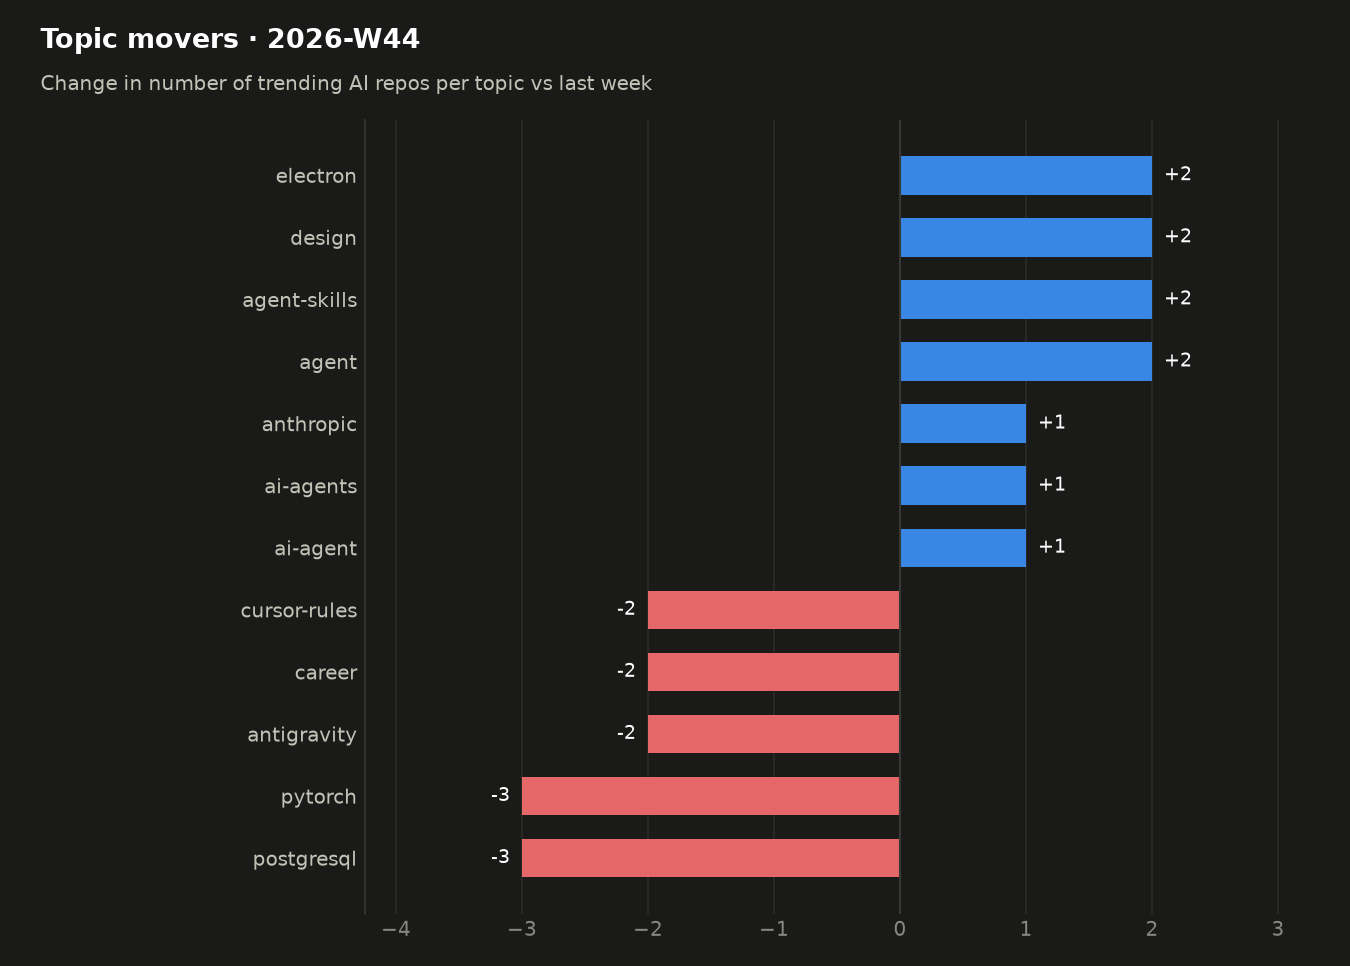
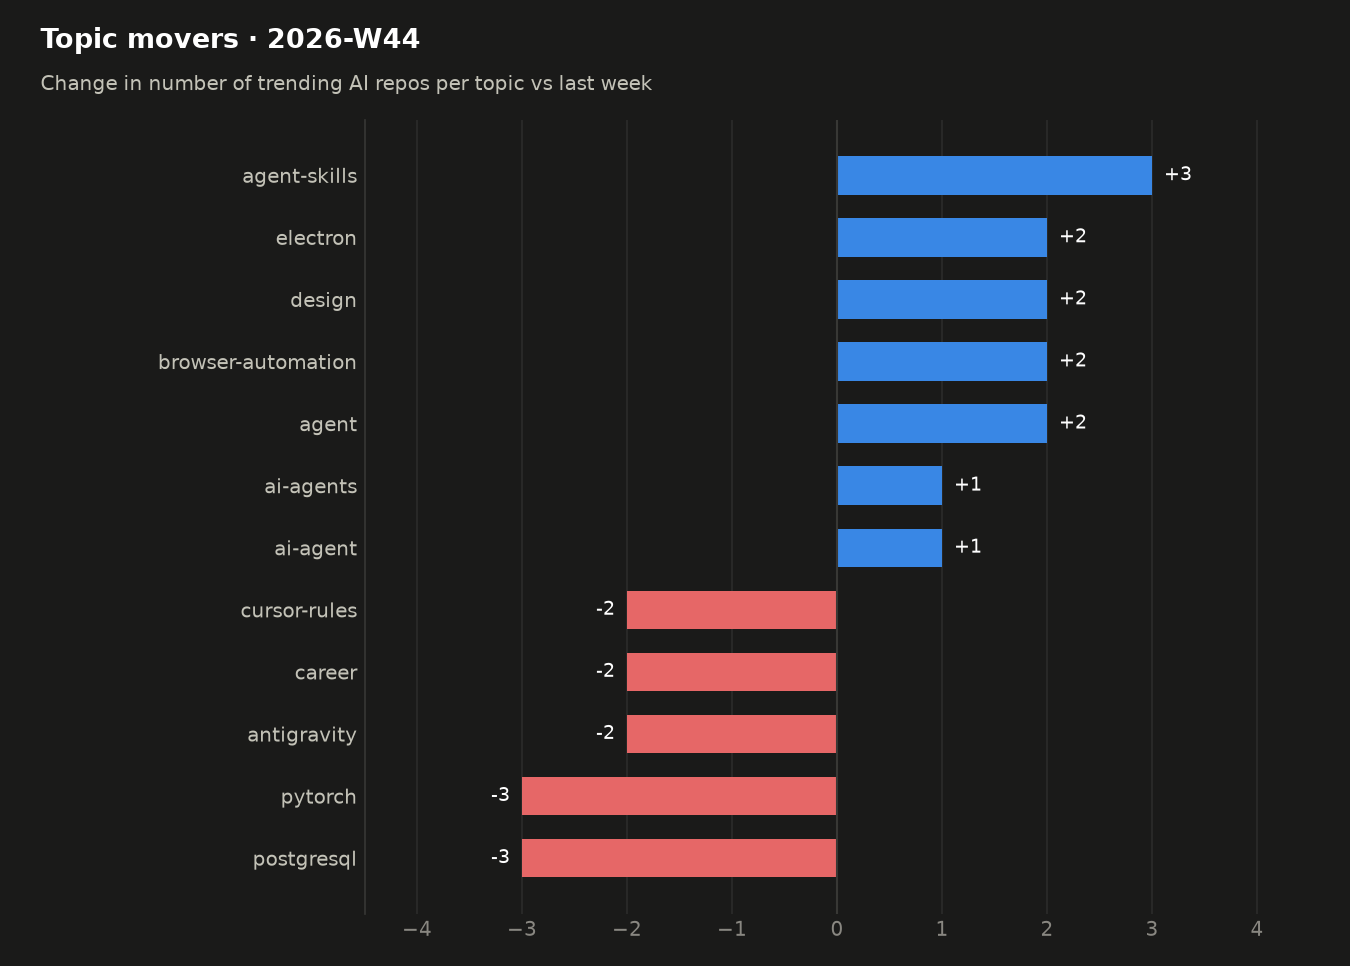
trending: snapshot 2026-10-31

diff --git a/README.md b/README.md
@@ -7,32 +7,34 @@ Every morning a GitHub Actions workflow reads the GitHub trending page, looks up
 ## Live view
 
 <!-- TRACKER_START -->
-### 🔥 AI repos trending today · 2026-10-30
+### 🔥 AI repos trending today · 2026-10-31
 
-10 of 11 trending repositories are AI-related.
+12 of 15 trending repositories are AI-related.
 
 | # | Repo | Language | ⭐ today | ⭐ total | Topics |
 |--:|---|---|--:|--:|---|
-| 1 | [HKUDS/DeepTutor](https://github.com/HKUDS/DeepTutor)<br><sub>Star HKUDS / DeepTutor DeepTutor: Lifelong Personalized Tutoring. https://deeptutor.info/ …</sub> | Python | 1,930 | 50,990 | `ai-agents` `ai-tutor` `clawbot` `cli-tool` |
-| 2 | [obra/superpowers](https://github.com/obra/superpowers)<br><sub>Sponsor Star obra / superpowers An agentic skills framework & software development methodo…</sub> | Shell | 1,034 | 308,948 | `ai` `brainstorming` `coding` `obra` |
-| 3 | [pbakaus/impeccable](https://github.com/pbakaus/impeccable)<br><sub>Star pbakaus / impeccable The design vocabulary for your coding agent. Steer with polish a…</sub> | Rust | 2,870 | 96,089 | `agent-skills` `ai` `anti-slop` `design` |
-| 4 | [JetBrains/thinkrail](https://github.com/JetBrains/thinkrail)<br><sub>Star JetBrains / thinkrail Vibe code with pi in a lightweight, real IDE that customises it…</sub> | TypeScript | 1,117 | 6,242 | `agent` `agent-skills` `agentic-ai` `agentic-workflow` |
-| 5 | [milind-soni/OpenMausBot](https://github.com/milind-soni/OpenMausBot)<br><sub>Sponsor Star milind-soni / OpenMausBot Open-source Grok Bot alternative with a virtual mac…</sub> | TypeScript | 1,199 | 7,780 | `ai-agents` `claude-code` `codex` `computer-use` |
-| 6 | [nightly-labs/openbot](https://github.com/nightly-labs/openbot)<br><sub>Star nightly-labs / openbot A local-first desktop workspace for persistent AI teammates. R…</sub> | TypeScript | 709 | 4,079 | `ai-agents` `bun` `codex` `electron` |
-| 7 | [elayadesign/ai-design-skills](https://github.com/elayadesign/ai-design-skills)<br><sub></sub> | – | 1,187 | 12,559 | – |
-| 8 | [thedotmack/claude-mem](https://github.com/thedotmack/claude-mem)<br><sub>Sponsor Star thedotmack / claude-mem Persistent Context Across Sessions for Every Agent – …</sub> | TypeScript | 336 | 105,133 | `ai` `ai-agents` `ai-memory` `anthropic` |
-| 9 | [CopilotKit/OpenBot](https://github.com/CopilotKit/OpenBot)<br><sub>Star CopilotKit / OpenBot Open-source AI coworkers that each get a computer of their own: …</sub> | TypeScript | 247 | 8,371 | `ag-ui` `agent-governance` `ai-agents` `browser-automation` |
-| 11 | [Donchitos/Claude-Code-Game-Studios](https://github.com/Donchitos/Claude-Code-Game-Studios)<br><sub>Sponsor Star Donchitos / Claude-Code-Game-Studios Turn Claude Code into a full game dev st…</sub> | Shell | 353 | 29,725 | `ai-agents` `ai-assisted-development` `anthropic` `claude` |
+| 1 | [thedotmack/claude-mem](https://github.com/thedotmack/claude-mem)<br><sub>Sponsor Star thedotmack / claude-mem Persistent Context Across Sessions for Every Agent – …</sub> | TypeScript | 1,140 | 106,771 | `ai` `ai-agents` `ai-memory` `anthropic` |
+| 2 | [milind-soni/OpenMausBot](https://github.com/milind-soni/OpenMausBot)<br><sub>Sponsor Star milind-soni / OpenMausBot Open-source Grok Bot alternative with a virtual mac…</sub> | TypeScript | 895 | 9,021 | `ai-agents` `claude-code` `codex` `computer-use` |
+| 3 | [pbakaus/impeccable](https://github.com/pbakaus/impeccable)<br><sub>Star pbakaus / impeccable The design vocabulary for your coding agent. Steer with polish a…</sub> | Rust | 2,300 | 97,480 | `agent-skills` `ai` `anti-slop` `design` |
+| 4 | [CopilotKit/OpenBot](https://github.com/CopilotKit/OpenBot)<br><sub>Star CopilotKit / OpenBot Open-source AI coworkers that each get a computer of their own: …</sub> | TypeScript | 706 | 8,968 | `ag-ui` `agent-governance` `ai-agents` `browser-automation` |
+| 6 | [expo/skills](https://github.com/expo/skills)<br><sub>Star expo / skills A collection of AI agent skills for working with Expo projects and Expo…</sub> | Shell | 38 | 3,950 | – |
+| 7 | [macro-inc/macro](https://github.com/macro-inc/macro)<br><sub>Star macro-inc / macro Macro is a unified workspace for teams: email, chat, docs, tasks, a…</sub> | Rust | 57 | 5,957 | `agent` `ai` `ai-agents` `all-in-one` |
+| 8 | [mattpocock/skills](https://github.com/mattpocock/skills)<br><sub>Sponsor Star mattpocock / skills Skills for Real Engineers. Straight from my .agents direc…</sub> | Shell | 876 | 307,724 | – |
+| 10 | [HKUDS/DeepTutor](https://github.com/HKUDS/DeepTutor)<br><sub>Star HKUDS / DeepTutor DeepTutor: Lifelong Personalized Tutoring. https://deeptutor.info/ …</sub> | Python | 2,282 | 52,091 | `ai-agents` `ai-tutor` `clawbot` `cli-tool` |
+| 11 | [anthropics/skills](https://github.com/anthropics/skills)<br><sub>Star anthropics / skills Public repository for Agent Skills</sub> | Python | 295 | 185,557 | `agent-skills` |
+| 12 | [JetBrains/thinkrail](https://github.com/JetBrains/thinkrail)<br><sub>Star JetBrains / thinkrail Vibe code with pi in a lightweight, real IDE that customises it…</sub> | TypeScript | 722 | 6,693 | `agent` `agent-skills` `agentic-ai` `agentic-workflow` |
+| 14 | [obra/superpowers](https://github.com/obra/superpowers)<br><sub>Sponsor Star obra / superpowers An agentic skills framework & software development methodo…</sub> | Shell | 1,259 | 309,617 | `ai` `brainstorming` `coding` `obra` |
+| 15 | [lightpanda-io/browser](https://github.com/lightpanda-io/browser)<br><sub>Star lightpanda-io / browser Lightpanda: the headless browser designed for AI and automati…</sub> | Zig | 626 | 38,672 | `browser` `browser-automation` `cdp` `headless` |
 
 ### 📊 This week so far · 2026-W44
 
 #### Summary
 
-- **25** distinct AI repos trended over 5 day(s) (last week: 31)
-- AI share of all trending slots: **85%** (+6 pts vs last week)
-- Dominant language: **TypeScript** (28% of AI repos)
-- Rising topics: `agent` (+2), `agent-skills` (+2), `design` (+2), `electron` (+2), `ai-agent` (+1)
-- New this week: `design`
+- **28** distinct AI repos trended over 6 day(s) (last week: 31)
+- AI share of all trending slots: **84%** (+5 pts vs last week)
+- No single dominant language: Python, TypeScript tied at 7 repo(s) each
+- Rising topics: `agent-skills` (+3), `agent` (+2), `browser-automation` (+2), `design` (+2), `electron` (+2)
+- New this week: `design`, `browser-automation`
 
 #### Languages
 
@@ -40,14 +42,15 @@ Every morning a GitHub Actions workflow reads the GitHub trending page, looks up
 
 | Language | Repos | Share | Last week |
 |---|--:|--:|--:|
-| TypeScript | 7 | 28% | 8 |
-| Python | 6 | 24% | 14 |
-| Rust | 3 | 12% | 3 |
-| Shell | 3 | 12% | 1 |
-| JavaScript | 2 | 8% | 2 |
-| Unspecified | 2 | 8% | 1 |
+| TypeScript | 7 | 25% | 8 |
+| Python | 7 | 25% | 14 |
+| Shell | 4 | 14% | 1 |
+| Rust | 3 | 11% | 3 |
+| JavaScript | 2 | 7% | 2 |
+| Unspecified | 2 | 7% | 1 |
 | CSS | 1 | 4% | 1 |
 | HTML | 1 | 4% | 0 |
+| Zig | 1 | 4% | 0 |
 
 #### Topics
 
@@ -57,10 +60,10 @@ Every morning a GitHub Actions workflow reads the GitHub trending page, looks up
 |---|--:|
 | `claude-code` | 9 |
 | `ai-agents` | 8 |
+| `agent-skills` | 5 |
 | `mcp` | 5 |
-| `agent` | 4 |
 | `codex` | 4 |
-| `agent-skills` | 4 |
+| `agent` | 4 |
 | `claude` | 4 |
 | `electron` | 3 |
 | `anthropic` | 3 |
@@ -72,20 +75,20 @@ Every morning a GitHub Actions workflow reads the GitHub trending page, looks up
 
 | Repo | Language | Days trending | Stars gained | Total stars |
 |---|---|--:|--:|--:|
-| [pbakaus/impeccable](https://github.com/pbakaus/impeccable) | Rust | 5 | 8,389 | 96,089 |
-| [JetBrains/thinkrail](https://github.com/JetBrains/thinkrail) | TypeScript | 5 | 4,613 | 6,242 |
+| [pbakaus/impeccable](https://github.com/pbakaus/impeccable) | Rust | 6 | 10,689 | 97,480 |
+| [JetBrains/thinkrail](https://github.com/JetBrains/thinkrail) | TypeScript | 6 | 5,335 | 6,693 |
 | [Nutlope/hallmark](https://github.com/Nutlope/hallmark) | CSS | 4 | 8,501 | 41,191 |
+| [HKUDS/DeepTutor](https://github.com/HKUDS/DeepTutor) | Python | 4 | 8,181 | 52,091 |
 | [makecindy/cindy](https://github.com/makecindy/cindy) | TypeScript | 4 | 4,164 | 8,361 |
+| [obra/superpowers](https://github.com/obra/superpowers) | Shell | 4 | 4,005 | 309,617 |
 | [nightly-labs/openbot](https://github.com/nightly-labs/openbot) | TypeScript | 4 | 2,716 | 4,079 |
-| [HKUDS/DeepTutor](https://github.com/HKUDS/DeepTutor) | Python | 3 | 5,899 | 50,990 |
 | [elayadesign/ai-design-skills](https://github.com/elayadesign/ai-design-skills) | – | 3 | 4,721 | 12,559 |
-| [obra/superpowers](https://github.com/obra/superpowers) | Shell | 3 | 2,746 | 308,948 |
 | [debpalash/VoiceStudio](https://github.com/debpalash/VoiceStudio) | Python | 2 | 3,889 | 90,012 |
-| [affaan-m/ECC](https://github.com/affaan-m/ECC) | JavaScript | 2 | 2,061 | 291,181 |
+| [milind-soni/OpenMausBot](https://github.com/milind-soni/OpenMausBot) | TypeScript | 2 | 2,094 | 9,021 |
 
 ➡ Last full weekly analysis: [2026-W43](reports/weekly/2026-W43.md) · [all reports](reports/weekly)
 
-_Tracking since 2026-10-01 · 30 day(s) of data · [raw data](data/trending.csv)_
+_Tracking since 2026-10-01 · 31 day(s) of data · [raw data](data/trending.csv)_
 <!-- TRACKER_END -->
 
 ## How it works
